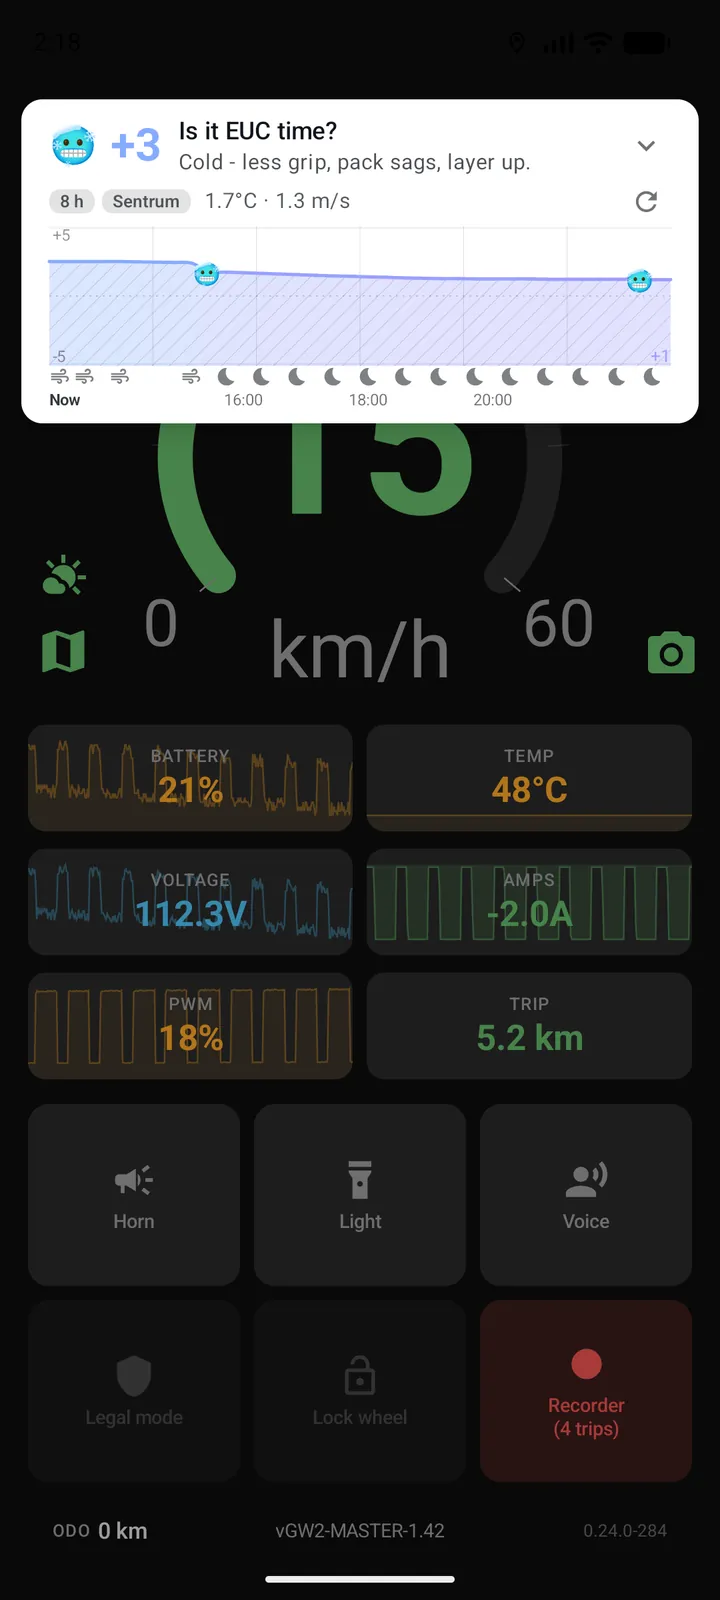
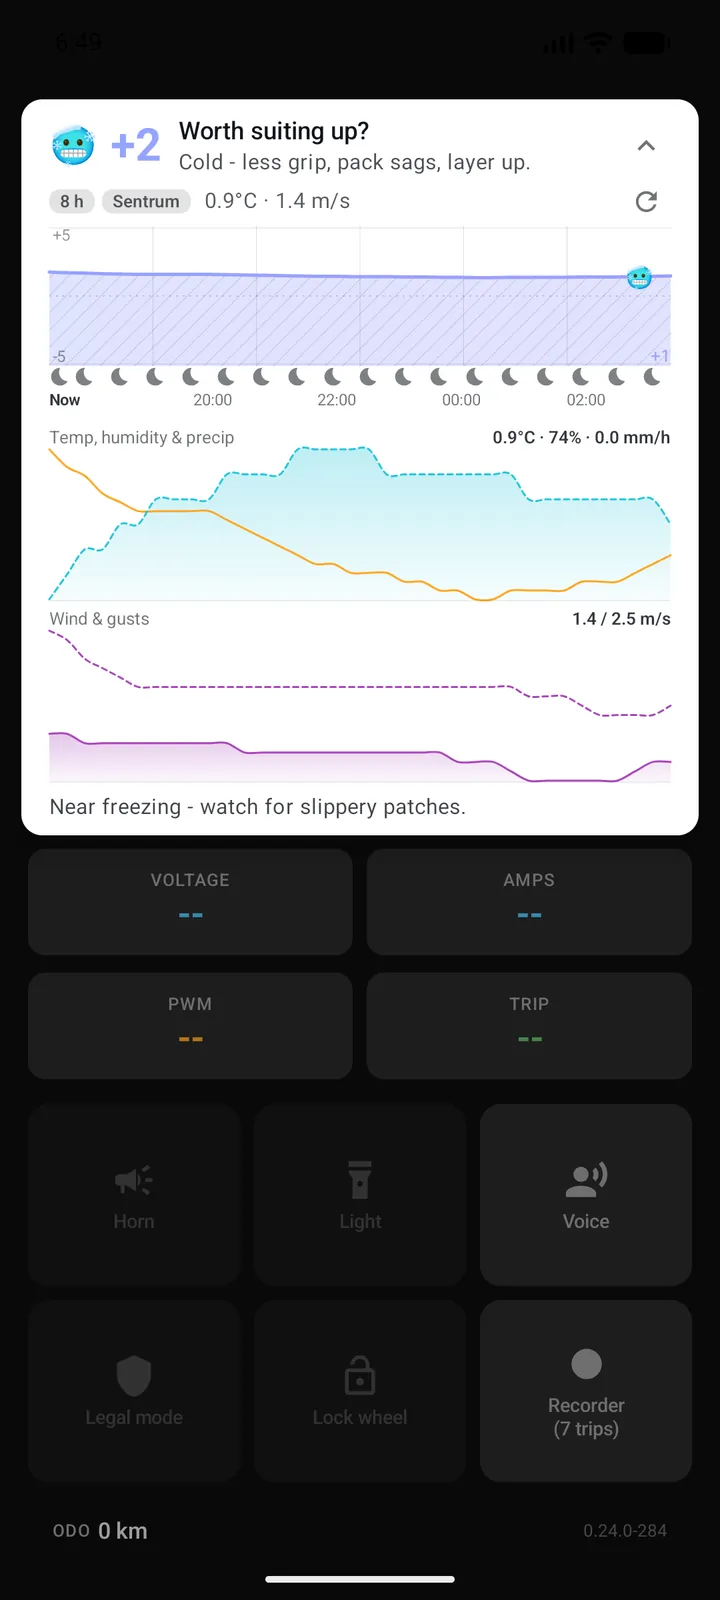
site: feature previews show the full screen width, fold away in place, and show what only that card has
Each card gets its own preview, so leaving one folds it away where it was
while the next opens at the new card. The screenshot shows its full width
and pans slowly. Rounded corners come from clip-path, which leaves no thin
halo. New shots: the dashboard in three themes, the cell view, the offline
maps grid, the Phone HUD over the home screen, the route QR code and the
forecast details, so no card repeats the gallery above it.

Claude-Session: https://claude.ai/code/session_01GHUZZ33sT9FYS6sXiMogJc

diff --git a/docs/index.html b/docs/index.html
@@ -586,56 +586,69 @@
   .os svg { width: 15px; height: 15px; display: block; }
   .os svg.off { color: var(--muted); opacity: 0.16; }
   .section-head .os { margin-left: 0; }
-  /* Feature preview: a small phone (or watch) next to the hovered card,
-     placed by script where the window has room. The card stays readable. */
+  /* Feature preview: a small phone screen next to the hovered card, placed
+     by script where the window has room. It unfolds out of the point where
+     it touches its card; each card gets its own, so the last one folds away
+     where it was while the next opens. The screenshot shows its full width
+     and pans slowly up and down. Rounded corners come from clip-path, not
+     from overflow on a radius, so the moving picture leaves no thin halo. */
   .card.has-shot { cursor: zoom-in; }
-  /* The preview overlaps the edge of its card, which lights up, so it is
-     clear which feature it shows. */
-  .card.has-shot.shown { border-color: rgba(88, 166, 255, 0.55); }
   .card.has-shot:focus-visible { outline: 2px solid var(--accent); outline-offset: 2px; }
+  .card.has-shot.shown { border-color: rgba(88, 166, 255, 0.55); }
   .shot-pop {
     position: fixed;
     left: 0; top: 0;
     z-index: 80;
-    width: var(--pw, 230px);
-    height: var(--ph, 300px);
-    padding: 7px;
-    border-radius: 28px;
-    background: #0b0f14;
-    box-shadow: 0 22px 50px rgba(0, 0, 0, 0.6);
-    visibility: hidden;
-    /* Unfold: it opens out of the point where it touches its card. */
-    clip-path: circle(0% at var(--ox, 0%) var(--oy, 50%));
-    transition: clip-path 800ms cubic-bezier(0.65, 0, 0.25, 1), visibility 0s linear 800ms;
+    width: var(--pw, 240px);
+    height: var(--ph, 330px);
     pointer-events: none;
+    visibility: hidden;
+    transition: visibility 0s linear 800ms;
   }
-  .shot-pop.on { visibility: visible; clip-path: circle(150% at var(--ox, 0%) var(--oy, 50%)); transition: clip-path 800ms cubic-bezier(0.65, 0, 0.25, 1); }
-  .shot-pop .win img { transition: opacity 450ms ease; }
-  .shot-pop:not(.on) .win { opacity: 0; transition: opacity 120ms ease; }
-  .shot-pop.on .win { opacity: 1; transition: opacity 500ms ease 400ms; }
-  .shot-pop .win { position: relative; width: 100%; height: 100%; border-radius: 21px; overflow: hidden; background: #000; }
+  .shot-pop.on { visibility: visible; transition: none; }
+  .shot-pop::before {
+    content: "";
+    position: absolute;
+    inset: 0;
+    border-radius: 22px;
+    box-shadow: 0 22px 50px rgba(0, 0, 0, 0.55);
+    opacity: 0;
+    transition: opacity 400ms ease;
+  }
+  .shot-pop.on::before { opacity: 1; transition: opacity 600ms ease 300ms; }
+  .shot-pop .unfold {
+    position: absolute;
+    inset: 0;
+    clip-path: circle(0% at var(--ox, 0%) var(--oy, 50%));
+    transition: clip-path 700ms cubic-bezier(0.65, 0, 0.25, 1);
+  }
+  .shot-pop.on .unfold { clip-path: circle(150% at var(--ox, 0%) var(--oy, 50%)); transition-duration: 800ms; }
+  .shot-pop .win {
+    position: absolute;
+    inset: 0;
+    background: #05070a;
+    clip-path: inset(0 round 22px);
+  }
   .shot-pop img {
     position: absolute;
-    left: -25%;
-    width: 150%;
+    left: 0;
+    width: 100%;
     max-width: none;
     height: auto;
     top: 50%;
     opacity: 0;
-    transition: opacity 450ms ease;
+    transition: opacity 600ms ease;
     transform: translateY(calc(var(--f1) * -100%));
-    animation: pop-sweep 3s ease-in-out infinite alternate;
+    animation: pop-sweep 7s ease-in-out infinite alternate;
   }
   .shot-pop img.on { opacity: 1; }
   @keyframes pop-sweep {
     from { transform: translateY(calc(var(--f1) * -100%)); }
     to   { transform: translateY(calc(var(--f2) * -100%)); }
   }
-  .shot-pop.watch { width: var(--pw, 210px); height: var(--pw, 210px); border-radius: 50%; padding: 8px; }
-  .shot-pop.watch .win { border-radius: 50%; }
-  .shot-pop.watch img { left: 0; top: 0; width: 100%; height: 100%; transform: none; animation: none; }
   @media (prefers-reduced-motion: reduce) {
-    .shot-pop, .shot-pop.on, .shot-pop img, .shot-pop .win { transition: none; animation: none; clip-path: none; }
+    .shot-pop, .shot-pop::before, .shot-pop .unfold, .shot-pop img { transition: none; animation: none; }
+    .shot-pop .unfold { clip-path: none; }
   }
   .card p { font-size: 14px; color: #9aa4b2; margin: 0; }
   .card p a, .lead a { color: var(--accent); text-decoration: underline; text-decoration-color: rgba(88, 166, 255, 0.4); }
@@ -949,31 +962,31 @@
         <h3><span data-i18n="fc.wheels.title">Works with your wheel</span></h3>
         <p data-i18n-html="fc.wheels.body">InMotion V14 and P6 verified. KingSong, Begode, Veteran (LeaperKim), NOSFET and more InMotion models are rider-tested, the rest of those families and Ninebot in preview. <a href="https://github.com/eried/eucplanet/blob/main/docs/BLE_CAPTURE_GUIDE.md">Help us add yours</a>, or <a href="https://github.com/eried/eucplanet/blob/main/docs/DIAGNOSTICS_GUIDE.md">send a diagnostics recording</a> if it acts up.</p>
       </div>
-      <div class="card has-shot" tabindex="0" data-shots="f-modern.webp" data-f1="0.28" data-f2="0.62" data-kind="phone">
+      <div class="card has-shot" tabindex="0" data-shots="f-theme-dark.webp|f-theme-black.webp|f-theme-light.webp" data-f1="0.3" data-f2="0.62">
         <h3><span data-i18n="fc.modern.title">Modern &amp; fast</span></h3>
         <p data-i18n-html="fc.modern.body">A pure-black dashboard with almost no lag, built to be read in one glance at speed. Reorder the tiles, theme every color, and it adapts to portrait, bar-mount landscape, tablets and foldable cover screens.</p>
       </div>
-      <div class="card has-shot" tabindex="0" data-shots="f-record.webp" data-f1="0.3" data-f2="0.8" data-kind="phone">
+      <div class="card has-shot" tabindex="0" data-shots="f-record.webp" data-f1="0.3" data-f2="0.8">
         <h3><span data-i18n="fc.record.title">Record and compare</span></h3>
         <p data-i18n-html="fc.record.body">Every ride is recorded with GPS and wheel telemetry, in a CSV format other EUC apps and tools can read. Open any trip for its graphs, or let Compare put two rides side by side.</p>
       </div>
-      <div class="card has-shot" tabindex="0" data-shots="f-charging.webp" data-f1="0.4" data-f2="0.84" data-kind="phone">
+      <div class="card has-shot" tabindex="0" data-shots="f-charging.webp|f-cells.webp" data-f1="0.4" data-f2="0.8">
         <h3><span data-i18n="fc.charging.title">Charging, cell by cell</span></h3>
         <p data-i18n-html="fc.charging.body">A live charge curve with a prediction line you can scrub. On wheels with a smart BMS, a per-cell view shows cell voltages, pack imbalance and temperatures, so a weak cell shows up early.</p>
       </div>
-      <div class="card has-shot" tabindex="0" data-shots="f-navigation.webp" data-f1="0.4" data-f2="0.66" data-kind="phone">
+      <div class="card has-shot" tabindex="0" data-shots="f-navigation.webp|f-offline.webp" data-f1="0.4" data-f2="0.66">
         <h3><span data-i18n="fc.navigation.title">Navigation, offline too</span></h3>
         <p data-i18n-html="fc.navigation.body">Multi-stop routes with turn-by-turn guidance. Bike routes prefer quiet streets, and a missed turn gets a new route in seconds. Download the areas you ride and the map, routes and turn cues keep working with no signal.</p>
       </div>
-      <div class="card has-shot" tabindex="0" data-shots="f-watchset.webp|f-hudset.webp" data-f1="0.14" data-f2="0.4" data-kind="phone">
+      <div class="card has-shot" tabindex="0" data-shots="f-watchset.webp|f-hudset.webp" data-f1="0.14" data-f2="0.4">
         <h3><span data-i18n="fc.devices.title">Watch and helmet</span> <span class="os" role="img" aria-label="Android" title="Android" data-i18n-attrs data-i18n-attr-aria-label="a.android" data-i18n-attr-title="a.android"><svg class="off"><use href="#os-apple"/></svg><svg><use href="#os-android"/></svg></span></h3>
         <p data-i18n-html="fc.devices.body">Your wheel's numbers off the phone: a Wear OS watch app, a <a href="https://apps.garmin.com/apps/14c2d086-fcb5-4042-bd5b-034519d18a71">Garmin watch or Edge data field</a>, an Amazfit dial, and a <a href="hud/">MotoEye or any Android helmet HUD</a>, also in Android Auto mode with the route.</p>
       </div>
-      <div class="card has-shot" tabindex="0" data-shots="f-alarms-en.webp|f-alarms-es.webp|f-alarms-no.webp|f-alarms-zh.webp" data-f1="0.28" data-f2="0.66" data-kind="phone">
+      <div class="card has-shot" tabindex="0" data-shots="f-alarms-en.webp|f-alarms-es.webp|f-alarms-no.webp|f-alarms-zh.webp" data-f1="0.28" data-f2="0.66">
         <h3><span data-i18n="fc.alarms.title">Alarms &amp; voice</span></h3>
         <p data-i18n-html="fc.alarms.body">Alarms and spoken reports for speed, battery and PWM, the number that says how close the wheel is to its limit, in your language. Ask for battery or speed by voice, or say horn, lights, lock.</p>
       </div>
-      <div class="card has-shot" tabindex="0" data-shots="f-studio.webp" data-f1="0.4" data-f2="0.8" data-kind="phone">
+      <div class="card has-shot" tabindex="0" data-shots="f-phonehud.webp" data-f1="0.3" data-f2="0.7">
         <h3><span data-i18n="fc.studio.title">Overlay Studio</span></h3>
         <p data-i18n-html="fc.studio.body">Record video with your telemetry on screen, laid out your way. Export MP4 or a transparent overlay for another camera's footage. The same editor designs your <a href="hud/">MotoEye HUD</a> and the Phone HUD overlay on Android.</p>
       </div>
@@ -981,11 +994,11 @@
         <h3><span data-i18n="fc.sensors.title">Buttons, radar, sensors</span></h3>
         <p data-i18n-html="fc.sensors.body">Flic 2 buttons for horn, lights and lock. A Garmin Varia shows vehicles coming up behind you, with alarms on distance and closing speed. Bluetooth tire pressure caps and a RaceBox GPS feed the dashboard too.</p>
       </div>
-      <div class="card has-shot" tabindex="0" data-shots="f-group.webp" data-f1="0.4" data-f2="0.58" data-kind="phone">
+      <div class="card has-shot" tabindex="0" data-shots="f-qr.webp" data-f1="0.35" data-f2="0.65">
         <h3><span data-i18n="fc.group.title">Group rides</span></h3>
         <p data-i18n-html="fc.group.body">Share a ride with a link or a QR code and see friends live on the map, with trails. End-to-end encrypted, with a web page for watching without the app. Opt in to the <a href="https://eucstats.ried.no/">EUC Stats leaderboard</a> to see how your distance ranks worldwide.</p>
       </div>
-      <div class="card has-shot" tabindex="0" data-shots="f-weather.webp" data-f1="0.08" data-f2="0.22" data-kind="phone">
+      <div class="card has-shot" tabindex="0" data-shots="f-weather.webp" data-f1="0.08" data-f2="0.4">
         <h3><span data-i18n="fc.weather.title">Riding weather</span></h3>
         <p data-i18n-html="fc.weather.body">A score for how the next hours look for riding, from rain, wind and gusts, cold, heat and night, weighted by how much you mind each one. Drag the curve to read any hour.</p>
       </div>
@@ -1192,94 +1205,103 @@
 
 
 
-// Feature preview: one small phone that shows the hovered (or tapped) card's
-// screen. It sits beside the card if there is room, else below or above,
-// always inside the window, and follows the card while the page scrolls.
+
+// Feature preview: the hovered (or tapped) card's screen in a small phone.
+// It sits beside the card if there is room, else below or above, always in
+// the window, and follows the card while the page scrolls. Two previews
+// take turns, so leaving a card folds its own away in place.
 (function () {
   var cards = document.querySelectorAll('.features .card.has-shot');
   if (!cards.length) return;
-  var pop = document.createElement('div');
-  pop.className = 'shot-pop';
-  pop.setAttribute('aria-hidden', 'true');
-  pop.innerHTML = '<div class="win"></div>';
-  document.body.appendChild(pop);
-  var win = pop.firstChild, cur = null, timer = null;
+  function make() {
+    var p = document.createElement('div');
+    p.className = 'shot-pop';
+    p.setAttribute('aria-hidden', 'true');
+    p.innerHTML = '<div class="unfold"><div class="win"></div></div>';
+    document.body.appendChild(p);
+    return { el: p, win: p.querySelector('.win'), timer: null, wait: null, card: null };
+  }
+  var pops = [make(), make()], turn = 0, cur = null;
+  function clamp(v, lo, hi) { return Math.max(lo, Math.min(v, hi)); }
 
-  function place(card) {
-    var r = card.getBoundingClientRect(), vw = window.innerWidth, vh = window.innerHeight;
-    var w = pop.offsetWidth, h = pop.offsetHeight, g = -22, m = 8;
-    function clamp(v, lo, hi) { return Math.max(lo, Math.min(v, hi)); }
+  function place(pop, card) {
+    var el = pop.el, r = card.getBoundingClientRect(), vw = window.innerWidth, vh = window.innerHeight;
+    var w = el.offsetWidth, h = el.offsetHeight, g = -22, m = 8;
     var midY = clamp(r.top + r.height / 2 - h / 2, m, vh - h - m);
     var midX = clamp(r.left + r.width / 2 - w / 2, m, vw - w - m);
     var spots = [
-      { x: r.right + g, y: midY, room: vw - r.right - g - m - w },
-      { x: r.left - g - w, y: midY, room: r.left - g - m - w },
-      { x: midX, y: r.bottom + g, room: vh - r.bottom - g - m - h },
-      { x: midX, y: r.top - g - h, room: r.top - g - m - h }
+      { x: r.right + g, y: midY, room: vw - r.right - g - m - w, ox: '0%', oy: '50%' },
+      { x: r.left - g - w, y: midY, room: r.left - g - m - w, ox: '100%', oy: '50%' },
+      { x: midX, y: r.bottom + g, room: vh - r.bottom - g - m - h, ox: '50%', oy: '0%' },
+      { x: midX, y: r.top - g - h, room: r.top - g - m - h, ox: '50%', oy: '100%' }
     ];
-    spots[0].ox = '0%'; spots[0].oy = '50%';
-    spots[1].ox = '100%'; spots[1].oy = '50%';
-    spots[2].ox = '50%'; spots[2].oy = '0%';
-    spots[3].ox = '50%'; spots[3].oy = '100%';
     var best = spots[0];
     for (var i = 0; i < spots.length; i++) {
       if (spots[i].room >= 0) { best = spots[i]; break; }
       if (spots[i].room > best.room) best = spots[i];
     }
-    pop.style.setProperty('--ox', best.ox);
-    pop.style.setProperty('--oy', best.oy);
-    pop.style.left = clamp(best.x, m, vw - w - m) + 'px';
-    pop.style.top = clamp(best.y, m, vh - h - m) + 'px';
+    el.style.setProperty('--ox', best.ox);
+    el.style.setProperty('--oy', best.oy);
+    el.style.left = clamp(best.x, m, vw - w - m) + 'px';
+    el.style.top = clamp(best.y, m, vh - h - m) + 'px';
+  }
+
+  function close(pop) {
+    clearTimeout(pop.wait);
+    clearInterval(pop.timer);
+    pop.el.classList.remove('on');
+    if (pop.card) pop.card.classList.remove('shown');
+    pop.card = null;
   }
 
   function show(card) {
-    if (cur === card) return;
-    cur = card;
+    if (cur && cur.card === card) return;
+    if (cur) close(cur);
+    turn = 1 - turn;
+    var pop = pops[turn];
+    close(pop);
+    cur = pop;
+    pop.card = card;
+    card.classList.add('shown');
+    var scale = Math.max(0.75, Math.min(1, window.innerWidth / 640));
+    var w = Math.round(240 * scale), h = Math.round(330 * scale);
+    pop.el.style.setProperty('--pw', w + 'px');
+    pop.el.style.setProperty('--ph', h + 'px');
+    // The whole width is shown, so keep the pan inside the picture.
+    var half = (h / (w * 20 / 9)) / 2;
+    var f1 = clamp(+card.getAttribute('data-f1'), half, 1 - half);
+    var f2 = clamp(+card.getAttribute('data-f2'), half, 1 - half);
     var list = card.getAttribute('data-shots').split('|');
-    var small = Math.min(1, window.innerWidth / 640);
-    pop.className = 'shot-pop' + (card.getAttribute('data-kind') === 'watch' ? ' watch' : '');
-    pop.style.setProperty('--pw', Math.round((card.getAttribute('data-kind') === 'watch' ? 210 : 230) * Math.max(0.75, small)) + 'px');
-    pop.style.setProperty('--ph', Math.round(300 * Math.max(0.75, small)) + 'px');
-    win.innerHTML = '';
+    pop.win.innerHTML = '';
     list.forEach(function (src, i) {
       var im = new Image();
       im.alt = '';
       im.src = 'screenshots/' + src;
-      im.style.setProperty('--f1', card.getAttribute('data-f1'));
-      im.style.setProperty('--f2', card.getAttribute('data-f2'));
+      im.style.setProperty('--f1', f1);
+      im.style.setProperty('--f2', f2);
       if (i === 0) im.className = 'on';
-      win.appendChild(im);
+      pop.win.appendChild(im);
     });
-    clearInterval(timer);
     if (list.length > 1) {
       var k = 0;
-      timer = setInterval(function () {
-        var ims = win.children;
+      pop.timer = setInterval(function () {
+        var ims = pop.win.children;
         ims[k].className = '';
         k = (k + 1) % ims.length;
         ims[k].className = 'on';
-      }, 1800);
+      }, 2200);
     }
-    cards.forEach(function (x) { x.classList.toggle('shown', x === card); });
-    place(card);
+    place(pop, card);
     // Wait about a second, so a pass over the cards shows nothing, and
     // until the first picture is ready, so it never opens on a black box.
-    var first = win.firstChild, me = card;
+    var first = pop.win.firstChild;
     var ready = first.decode ? first.decode().catch(function () {}) : Promise.resolve();
-    clearTimeout(waitTimer);
-    waitTimer = setTimeout(function () {
-      ready.then(function () { if (cur === me) { place(me); pop.classList.add('on'); } });
+    pop.wait = setTimeout(function () {
+      ready.then(function () { if (pop.card === card) { place(pop, card); pop.el.classList.add('on'); } });
     }, 1000);
   }
 
-  var waitTimer = null;
-  function hide() {
-    clearTimeout(waitTimer);
-    cards.forEach(function (x) { x.classList.remove('shown'); });
-    cur = null;
-    clearInterval(timer);
-    pop.classList.remove('on');
-  }
+  function hide() { if (cur) close(cur); cur = null; }
 
   var touch = window.matchMedia && window.matchMedia('(hover: none)').matches;
   cards.forEach(function (c) {
@@ -1295,10 +1317,10 @@
     if (!touch) return;
     var card = ev.target.closest ? ev.target.closest('.features .card.has-shot') : null;
     if (!card || (ev.target.closest && ev.target.closest('a'))) { hide(); return; }
-    if (cur === card) hide(); else show(card);
+    if (cur && cur.card === card) hide(); else show(card);
   });
-  window.addEventListener('scroll', function () { if (cur) place(cur); }, { passive: true });
-  window.addEventListener('resize', function () { if (cur) place(cur); });
+  window.addEventListener('scroll', function () { if (cur && cur.card) place(cur, cur.card); }, { passive: true });
+  window.addEventListener('resize', function () { if (cur && cur.card) place(cur, cur.card); });
 })();
 </script>
 
